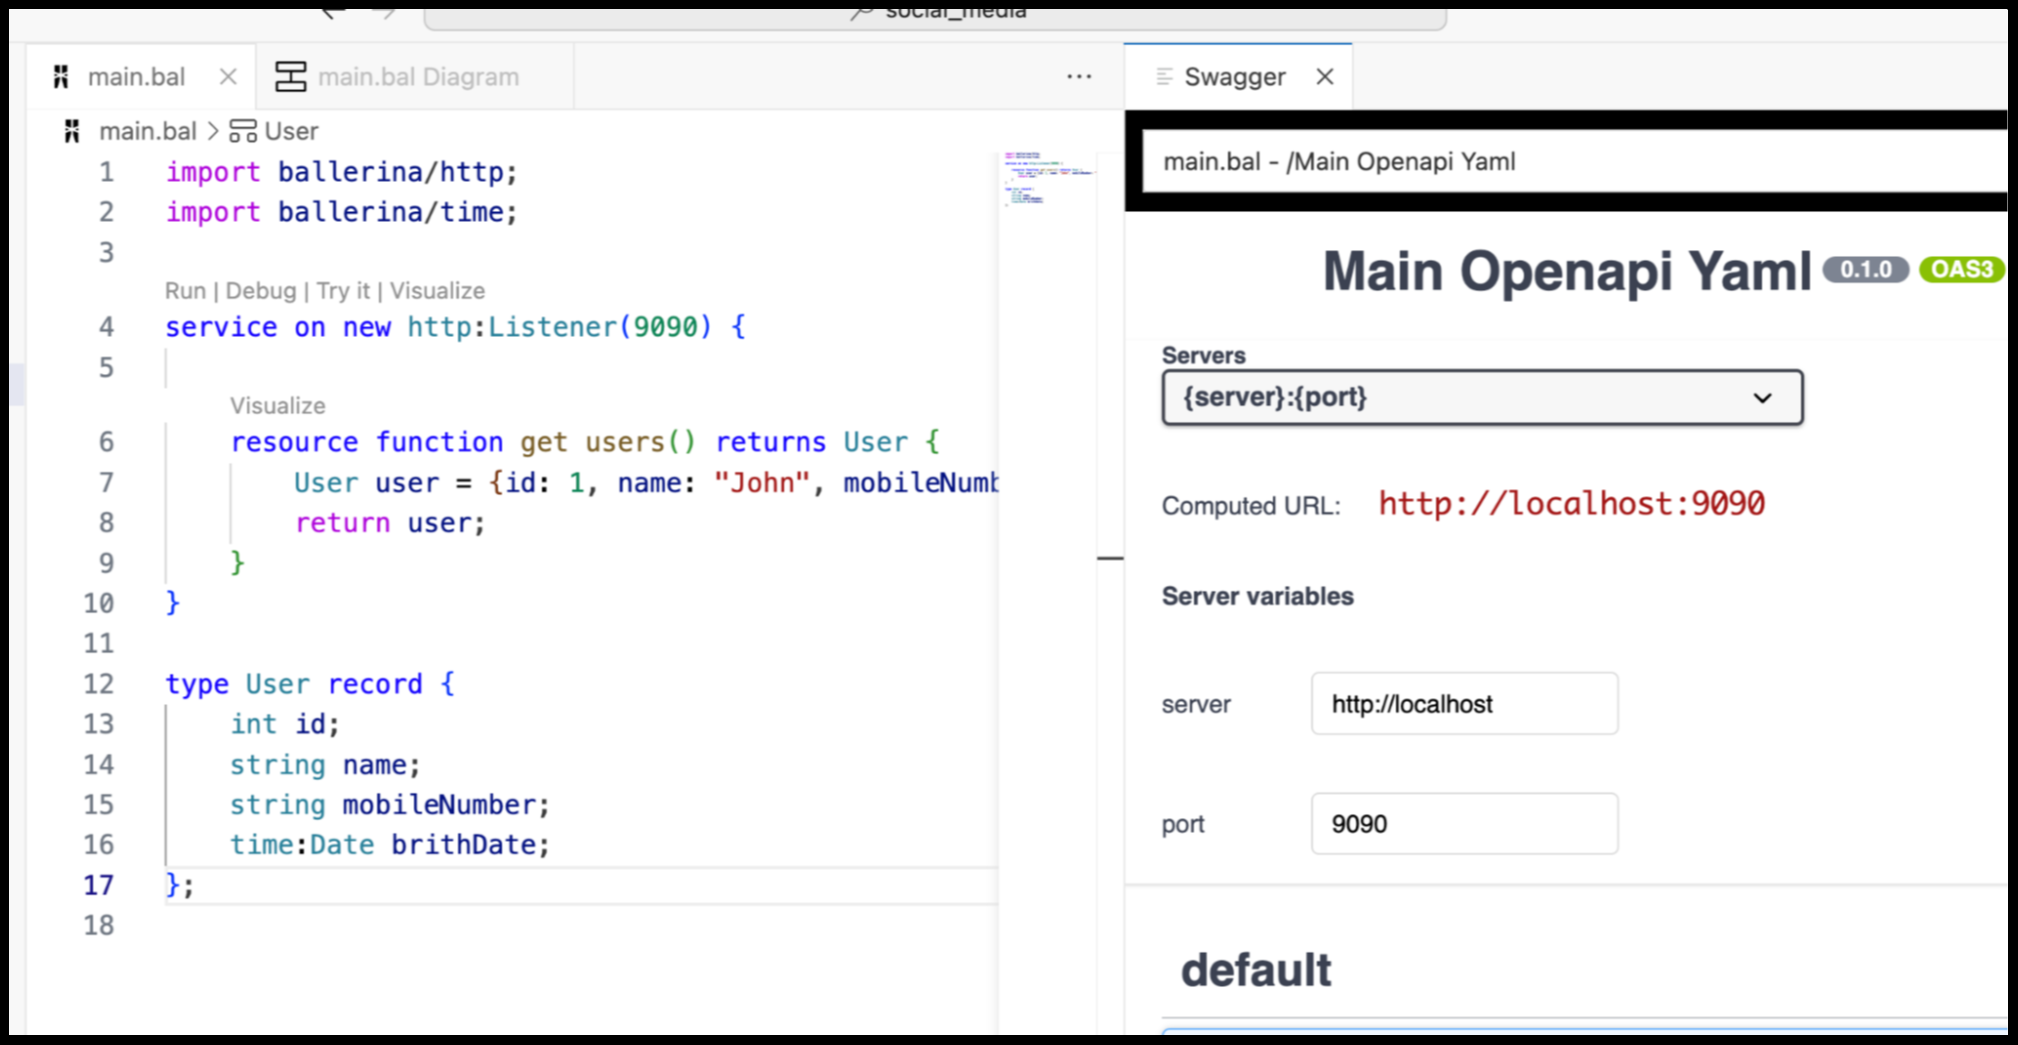
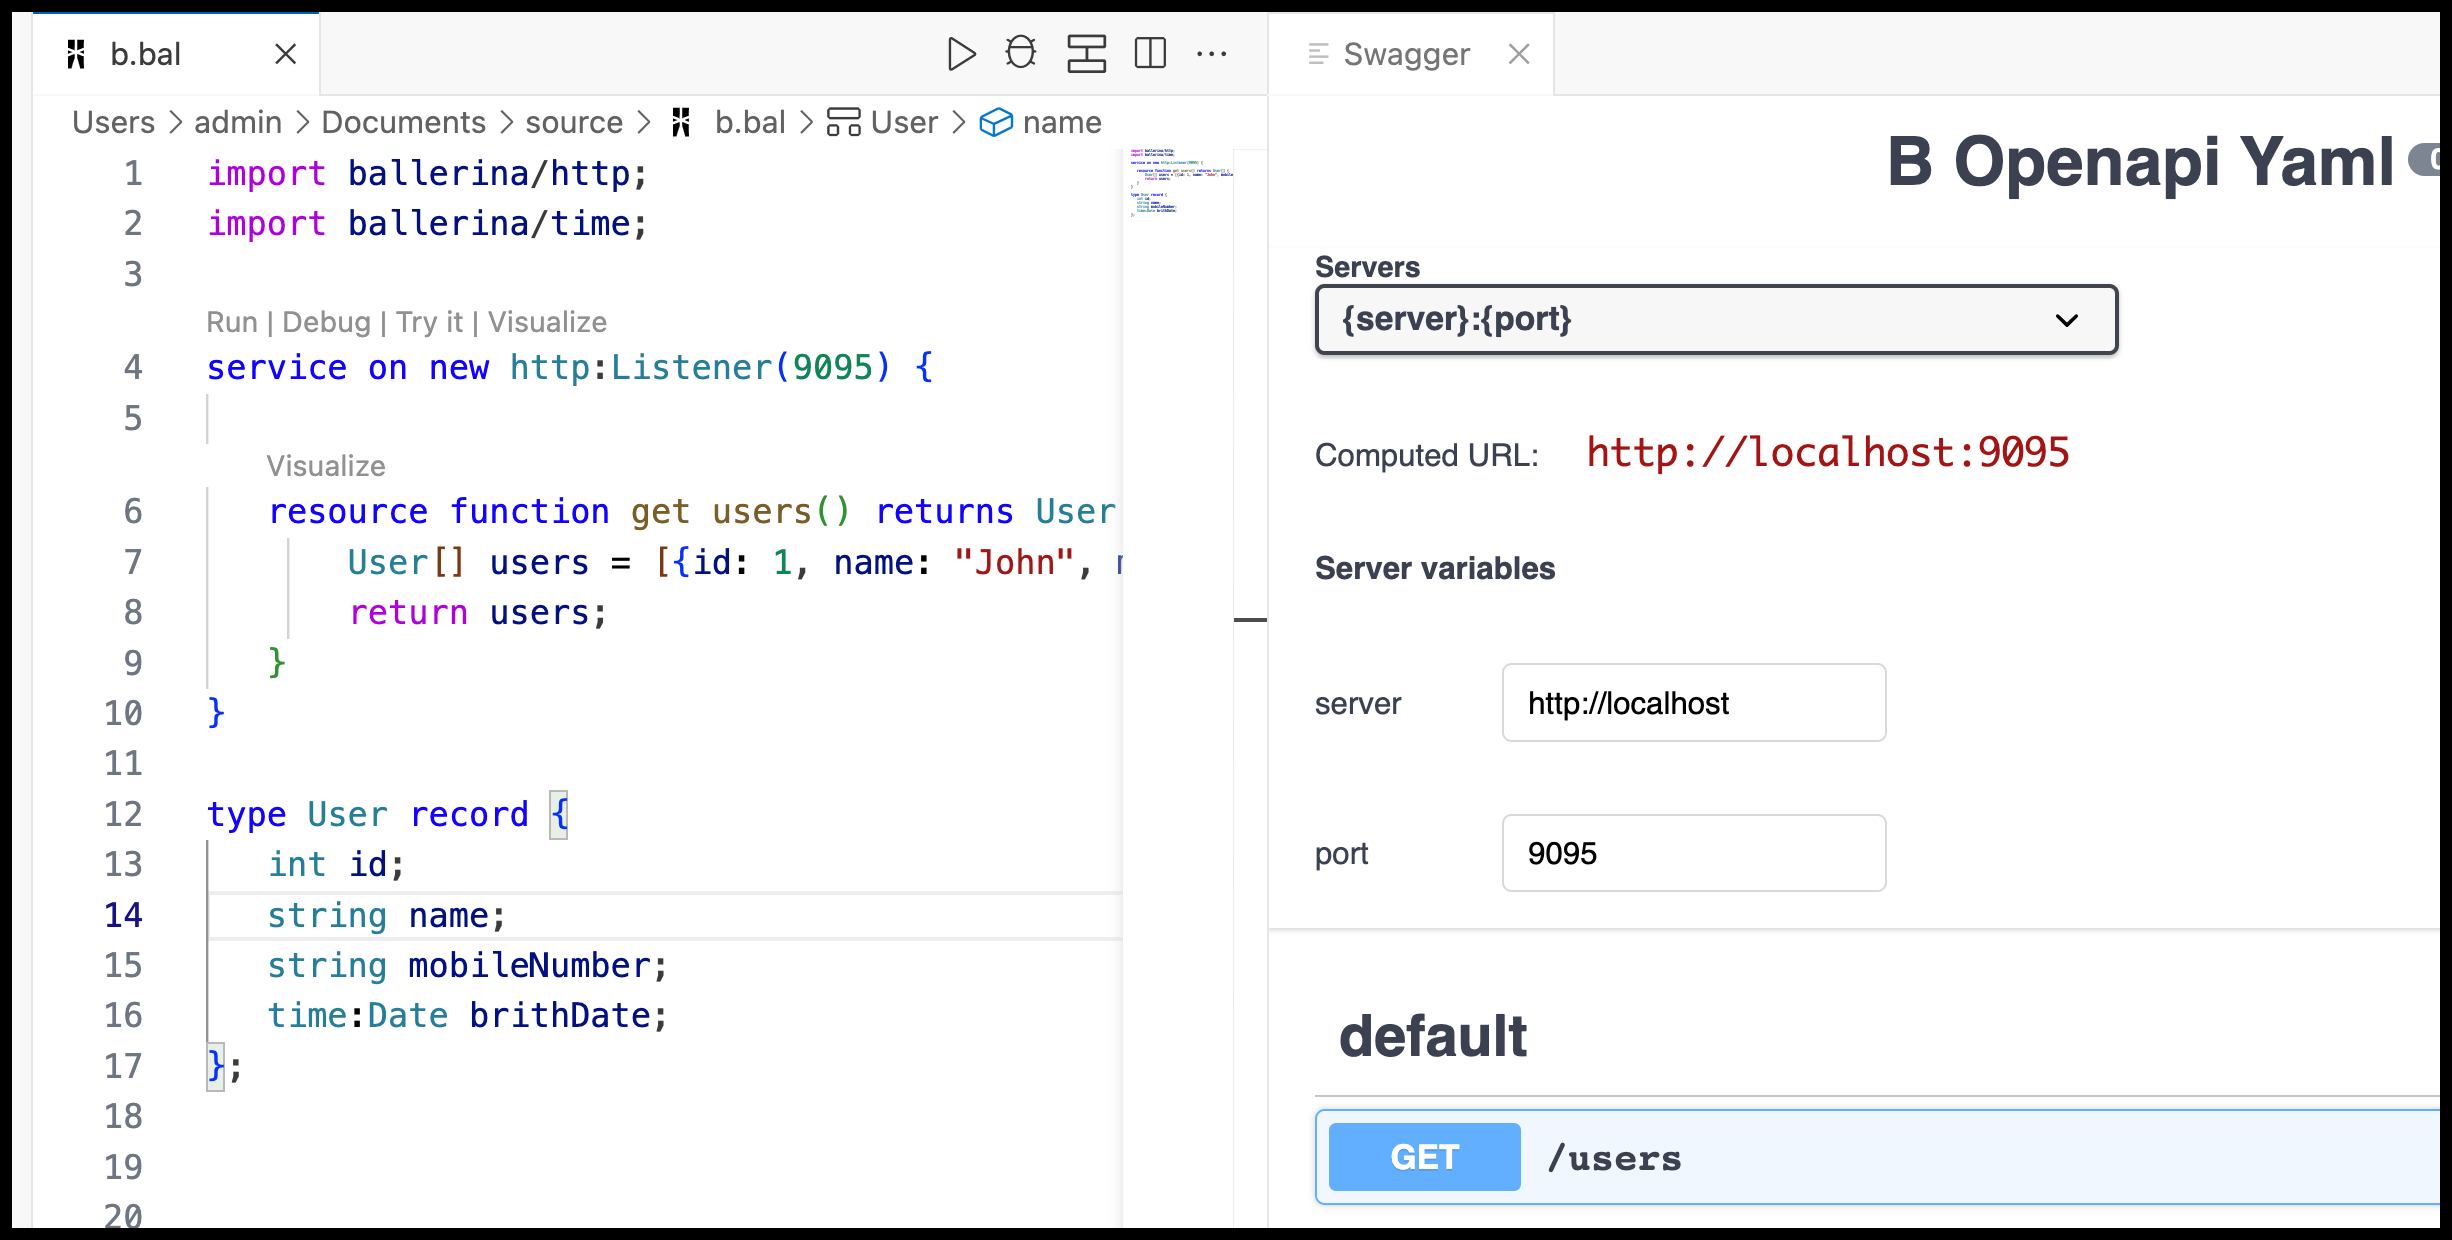
Fix the port in images

diff --git a/ballerina/ripplit-social-media/README.md b/ballerina/ripplit-social-media/README.md
@@ -156,7 +156,7 @@ code ripplit_service
 
 7. Create the first Ballerina resource with the path users and the return value as User type  
 
-<img src="./_resources/image24.png" alt="drawing" width='700'/>
+<img src="./_resources/image8.png" alt="drawing" width='700'/>
 
 8. Add some fields to the User record as follows
 
@@ -174,9 +174,9 @@ type User record {
 ```ballerina
 service on new http:Listener(0) {
 
-   resource function get users() returns User {
-       User user = {id: 1, name: "John", mobileNumber: "0771234567", brithDate: {year: 1990, month: 5, day: 15}};
-       return user;
+   resource function get users() returns User[] {
+       User[] users = [{id: 1, name: "John", mobileNumber: "0771234567", brithDate: {year: 1990, month: 5, day: 15}}];
+       return users;
    }
 }
 ```
